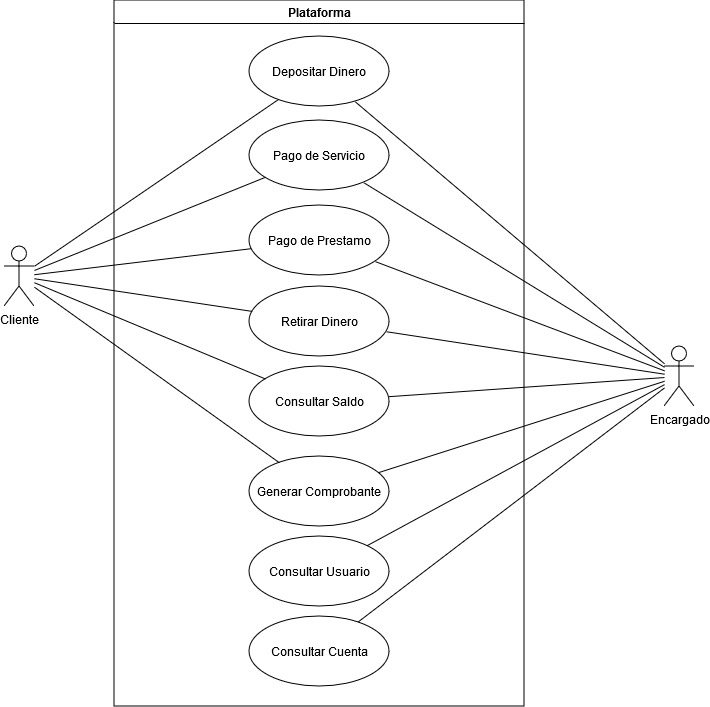
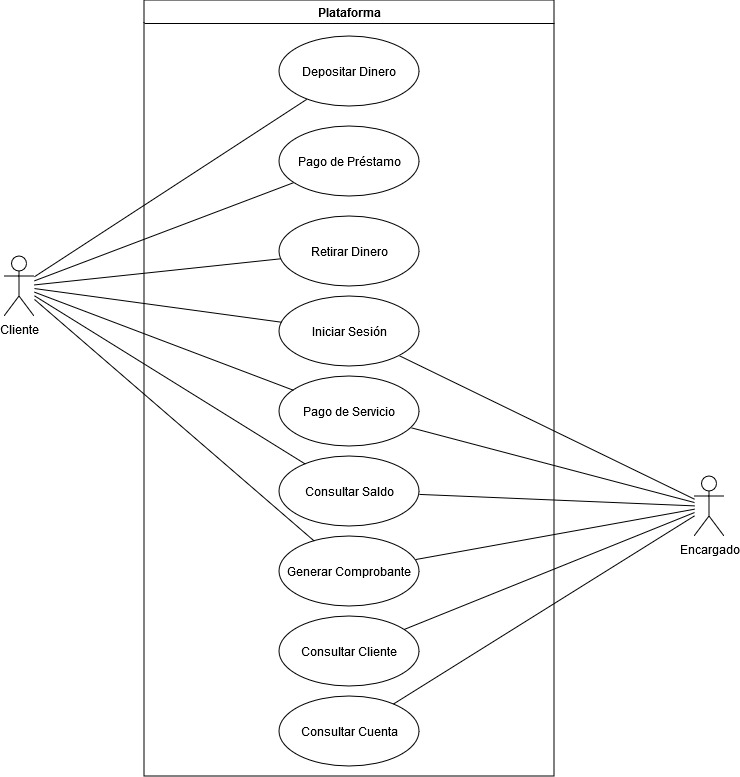
[ADD] CDU Extendidos y Bloques

diff --git a/Manuales/Tecnico/Readme.md b/Manuales/Tecnico/Readme.md
@@ -2,10 +2,11 @@
 
 ## Core del negocio
 
-La compañia Money Bin es una institucion financiera que ofrece diferentes servicios bancarios a sus afiliados y clientes en toda Guatemala, esto conlleva a que la empresa maneja un gran volumen de transacciones
-por lo que la compañia a marcado el objetivo de mejorar la atencion al cliente y la optimizacion de sus recursos por lo que nace la idea de la implementacion de una plataforma, 
-que se centra en brindar a los diferentes establecimientos afiliados a la compañia y a los propios clientes no solo mejorar los tiempo al eliminar la necesidad de sucursales asi como ofrecer una forma 
-inovadora en la manera en que se realizan las diferentes transacciones bancarias. Los servicios los cuales ofrece la compañia y los cuales se busca prestar dentro de la plataforma son:
+La compañia Money Bin es una institucion financiera que ofrece una gran gama servicios bancarios a sus afiliados y clientes en toda Guatemala, teniendo en sus pilares la seguridad,
+esto conlleva a que la empresa maneja un gran volumen de transacciones y clientes donde se ha notado una gran carga que ha impactado las experiencia de los clientes
+por lo tanto se ha marcado el objetivo de mejorar la atencion al cliente y la optimizacion de los recursos con la implementacion de una plataforma bancaria, 
+que se centra en brindar a los diferentes establecimientos afiliados a la compañia y a los propios clientes no solo mejorar los tiempo, al eliminar la necesidad de sucursales, sino que
+tambien ofrecer una forma inovadora en la manera en que se realizan las diferentes transacciones bancarias. Los servicios los cuales ofrece la compañia y los cuales se busca prestar dentro de la plataforma son:
 - **Pago de servicio**
 - **Pago de prestamos**
 - **Retiro y deposito de dinero**
@@ -21,23 +22,23 @@ inovadora en la manera en que se realizan las diferentes transacciones bancarias
 
 **Inicio de sesion**: El usuario puede ingresar a la plataforma ingresando su CUI y contraseña.
 
-**Registro de usuario**: Los usuario pueden registrarse en el aplicativo ingresando su informacion persoanal.
+**Registro de usuario**: Los usuarios pueden registrarse en el aplicativo ingresando su informacion persoanal.
 
-**Pago de servicios**: Los usuarios pueden realizar pagos de diferentes diferentes servicios dentro del plataforma ingresando diferentes datos para realizarlo.
+**Pago de servicios**: Los encargados pueden aplicar pagos de diferentes diferentes servicios dentro del plataforma en nombre del cliente.
 
-**Pago de prestamos**: Los usuarios pueden realizar pagos de prestamos de manera parcial o total.
+**Pago de prestamos**: Los clientes pueden realizar pagos de prestamos de manera parcial o total.
 
-**Buscar cuentas**: Los usuarios pueden realizar busquedas de clientes por medio del CUI del cliente o por medio del numero de cuenta del cliente.
+**Buscar cuentas**: Los encargados pueden realizar busquedas de clientes por medio del CUI del cliente o por medio del numero de cuenta del cliente.
 
-**Visualizar cliente**: Los usuarios pueden realizar la busqueda de clientes y visualizar la informacion de contacto e historial de transacciones.
+**Consultar cliente**: Los encargados pueden realizar la busqueda de clientes y visualizar la informacion de contacto e historial de transacciones.
 
-**Consultar saldo**: Los usuarios pueden consultar los saldos de sus cuentas bancarias.
+**Consultar saldo**: Los clientes pueden consultar los saldos de sus cuentas bancarias.
 
-**Generar comprobante**: Los usuarios pueden generar un reporte PDF que resuma su historial de transacciones bancarias.
+**Generar comprobante**: Los usuarios pueden obtener un reporte PDF de sus transacciones bancarias.
 
-**Retiro de dinero**: Los usuarios pueden realizar retiros de dinero de sus cuentas bancarias.
+**Retiro de dinero**: Los clientes pueden realizar retiros de dinero de sus cuentas bancarias.
 
-**Deposito de dinero**: Los usuarios pueden realizar depositos de dinero en sus cuentas bancarias.
+**Deposito de dinero**: Los clientes pueden realizar depositos de dinero en sus cuentas bancarias.
 
 ## Requerimientos No Funcionales
 
@@ -53,9 +54,89 @@ inovadora en la manera en que se realizan las diferentes transacciones bancarias
 
 **Accesibilidad**: La interfaz de la plataforma debe ser intuitiva y facil de utilizar.
 
-## CDU expandidos
+## Casos de Uso Expandidos
+
+**Caso de Uso**: Inicio de sesion\
+**Actores**: Cliente, Responsable\
+**Tipo**: Proporcionar un inicio de sesion dentro de la plataforma\
+**Proposito**: Primario\
+**Descripcion**: Los usuarios ingresan al login de la plataforma con sus datos personales para acceder a las funcionalidades.
+
+**Caso de Uso**: Inicio de sesion\
+**Actores**: Cliente, Responsable\
+**Tipo**: Proporcionar un inicio de sesion dentro de la plataforma\
+**Proposito**: Primario\
+**Descripcion**: Los usuarios ingresan al registro de la plataforma e ingresas sus datos personales para registrarse en la plataforma.
+
+**Caso de Uso**: Pago de servicio\
+**Actores**: Cliente, Responsable\
+**Tipo**: Primario\
+**Proposito**: Ofrecer el servicio para el pago de diferentes servicios\
+**Descripcion**: El cliente se presenta a una suscursal afiliada y solicita al encargado realizar el pago
+de algun servicio como agua, luz, internet, o telefono. El encargado ingresa su nombre,
+el codigo del servicio y el monto a pagar, una vez realizado se registra la transaccion del pago del servicio en la plataforma.
+
+**Caso de Uso**: Pago de prestamos\
+**Actores**: Cliente\
+**Tipo**: Primario\
+**Proposito**: Ofrecer el servicio para el pago de prestamos del cliente\
+**Descripcion**: El cliente dentro de la plataforma solicita realizar el pago de
+un prestamo registrado a su nombre, ya sea de un pago parcial o un pago completo, 
+el cliente ingresa el numero de cuenta, el numero del prestamo, el monto a pagar y la fecha de pago, 
+una vez realizado se registra la transaccion del pago y se aplica al saldo del prestamo dentro de la plataforma.
+
+**Caso de Uso**: Retiro de dinero\
+**Actores**: Cliente\
+**Tipo**: Primario\
+**Proposito**: Ofrecer el servicio para el retiro de dinero de cuentas\
+**Descripcion**: El cliente dentro de la plataforma solicita retirar efectivo de su cuenta, 
+el cliente ingresa el numero de cuenta, el monto a retirar, el tipo de retiro
+y la fecha y hora del retiro, una vez realizado se registra la transaccion de retiro de dinero a la cuenta del cliente
+y se actualiza el saldo de la misma.
+
+**Caso de Uso**: Retiro de dinero\
+**Actores**: Cliente\
+**Tipo**: Secundario\
+**Proposito**: Validar el monto de retiro de dinero de cuentas\
+**Descripcion**: El cliente dentro de la plataforma solicita retirar efectivo de su cuenta, 
+el cliente ingresa el numero de cuenta, el monto a retirar, el tipo de retiro
+y la fecha y hora del retiro, una vez realizado la plataforma detecta que la cantidad ingresada supera
+la cantidad limite disponible para retirar de la cuenta del cliente y aborta la transaccion.
+
+**Caso de Uso**: Deposito de dinero\
+**Actores**: Cliente\
+**Tipo**: Primario\
+**Proposito**: Ofrecer el servicio para el deposito de dinero de cuentas\
+**Descripcion**: El cliente dentro de la plataforma solicita depositar dinero a su cuenta, 
+el cliente ingresa el numero de cuenta, el monto a depositar, el metodo de deposito
+y la fecha y hora del deposito, una vez realizado se registra la transaccion de deposito a la cuenta del cliente
+y se actualiza el saldo de la misma dentro de la plataforma.
+
+**Caso de Uso**: Consultar saldo\
+**Actores**: Cliente, Encargado\
+**Tipo**: Primario\
+**Proposito**: Ofrecer un servicio para consultar saldos de las cuentas\
+**Descripcion**: Los usuarios dentro de la plataforma solicitan consultar el saldo de una cuenta, el usuario ingresan el numero de cuenta y se depliegua el saldo actual de la cuenta y la ultima fecha en la que se
+actualizo el saldo de la cuenta.
+
+**Caso de Uso**: Consultar Cliente\
+**Actores**: Encargado\
+**Tipo**: Primario\
+**Proposito**: Ofrecer un servicio de consulta rapida de clientes\
+**Descripcion**: El encargado dentro de la plataforma solicita consultar un cliente, el encargado ingresa
+el numero de cuenta de cliente o el CUI del cliente y la plataforma de rapida manera muestra la informacion del cliente.
+
+**Caso de Uso**: Generar comprobante\
+**Actores**: Cliente, Encargado\
+**Tipo**: Primario\
+**Proposito**: Ofrecer comprobantes del detalle de transacciones\
+**Descripcion**: Los usuarios dentro de la plataforma registran una transaccion, la plataforma automaticamente
+genera un reporte en PDF detallando algunso datos de la transaccion como
+el numero de cuenta, el tipo de transaccion, fecha y hora, monto, nombre y la firma del encargado.
 
 ## Arquitectura candidata (Diagrama de Bloques)
+
+![Bloques](./img/DiagramaBloques.jpg)
 
 ## Diagrama entidad relación
 
